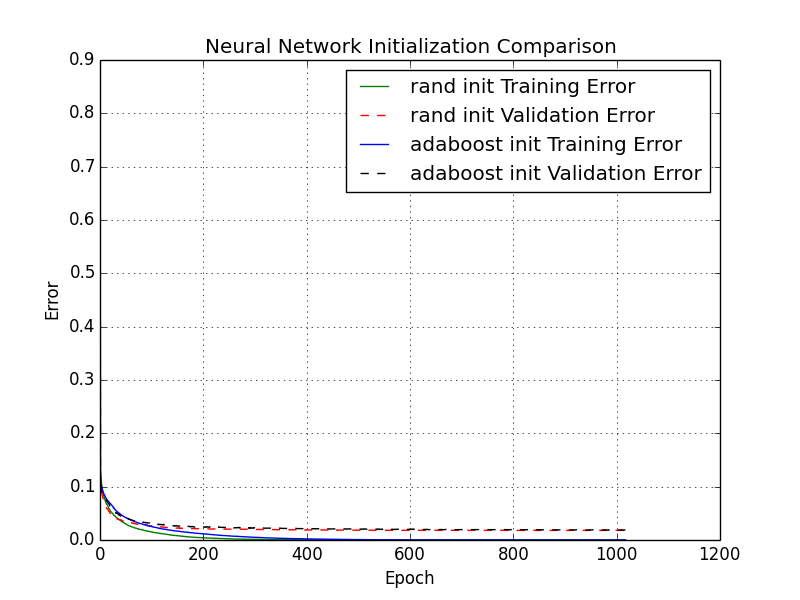
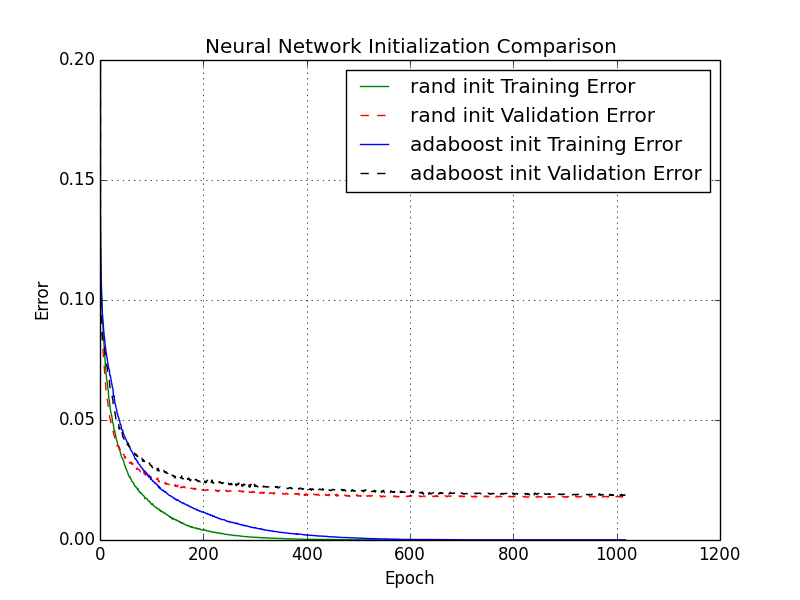
change ylim to 0.2 so that the graph can be seen better.

diff --git a/src/neural_network/perf_graph_comp.py b/src/neural_network/perf_graph_comp.py
@@ -26,7 +26,7 @@ def save_fig(rand_data, adaboost_data, filename, ttl, x_lim, y_lim):
     plot(x_axis, adaboost_nnet_vd_errs, 'k--', label = 'adaboost init Validation Error')
     if x_lim : xlim([0, x_lim])
     if y_lim : ylim([0, y_lim])
-    else: ylim([0, 0.9])
+    else: ylim([0, 0.2])
     legend()
     xlabel('Epoch')
     ylabel('Error')
